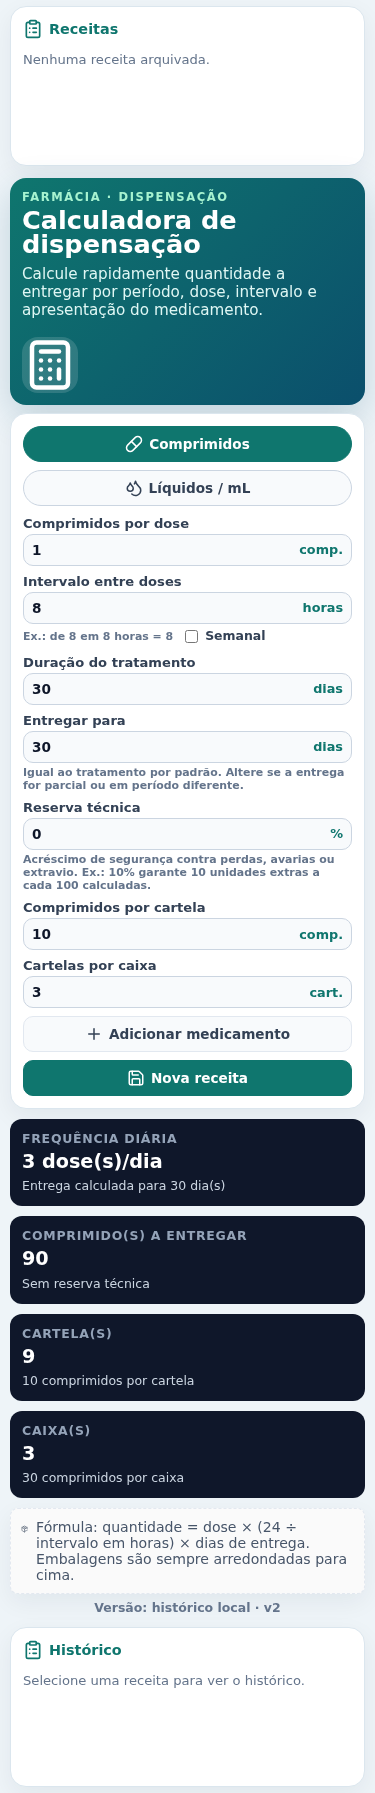
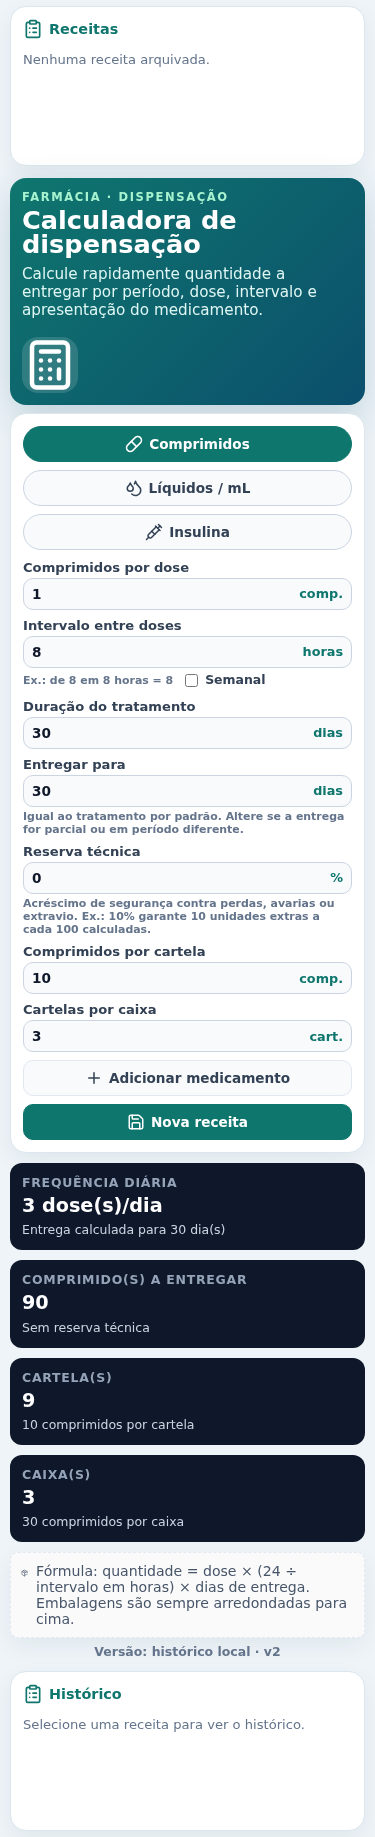
feat: restore insulin mode and fix weekly selectors

diff --git a/src/main.jsx b/src/main.jsx
@@ -1,6 +1,6 @@
 import React, { useEffect, useMemo, useState } from 'react';
 import { createRoot } from 'react-dom/client';
-import { Calculator, ClipboardList, Droplets, PackageCheck, Pill, Plus, Save } from 'lucide-react';
+import { Calculator, ClipboardList, Droplets, PackageCheck, Pill, Plus, Save, Syringe } from 'lucide-react';
 import './styles.css';
 
 const STORAGE_KEY = 'remedcalc.receitas.v1';
@@ -15,6 +15,13 @@ const initialForm = {
   unitsPerBlister: '10',
   blistersPerBox: '3',
   mlPerBottle: '100',
+  insulinMode: 'tubete',
+  insulinMorning: '0',
+  insulinAfternoon: '0',
+  insulinNight: '0',
+  insulinLunch: '0',
+  insulinDinner: '0',
+  insulinDays: '30',
   weekly: '0',
 };
 
@@ -53,8 +60,13 @@ function ResultCard({ title, value, detail }) {
 }
 
 function summarizeMedicine(medicine) {
-  const type = medicine.mode === 'ml' ? 'Líquido' : 'Comprimido';
-  const unit = medicine.mode === 'ml' ? 'mL' : 'comprimido(s)';
+  const type = medicine.mode === 'ml' ? 'Líquido' : medicine.mode === 'insulina' ? 'Insulina' : 'Comprimido';
+  const unit = medicine.mode === 'ml' ? 'mL' : medicine.mode === 'insulina' ? 'UI' : 'comprimido(s)';
+  const total = medicine.deliveredTotal ?? medicine.totalWithReserve ?? medicine.total;
+  const days = medicine.deliveryDays || medicine.treatmentDays || 0;
+  if (medicine.mode === 'insulina') {
+    return `${type}: ${total} ${unit} por ${days} dia(s)`;
+  }
   const freq = medicine.weekly ? '1x/semana' : `de ${medicine.intervalHours} em ${medicine.intervalHours} horas`;
   return `${type}: ${medicine.totalWithReserve} ${unit} por ${medicine.deliveryDays} dia(s), ${medicine.dose} ${medicine.mode === 'ml' ? 'mL' : 'comp.'} ${freq}`;
 }
@@ -79,7 +91,30 @@ function App() {
 
   const weekly = form.weekly === '1';
 
+  const isMl = form.mode === 'ml';
+  const isInsulin = form.mode === 'insulina';
+  const selectedRecipe = recipes.find((recipe) => recipe.id === selectedRecipeId) || recipes.at(-1) || null;
+
   const result = useMemo(() => {
+    if (form.mode === 'insulina') {
+      const totalUi = positiveNumber(form.insulinMorning) + positiveNumber(form.insulinAfternoon) + positiveNumber(form.insulinNight) + positiveNumber(form.insulinLunch) + positiveNumber(form.insulinDinner);
+      const divisor = form.insulinMode === 'tubete' ? 300 : 1000;
+      const days = positiveNumber(form.insulinDays);
+      const deliveredTotal = totalUi > 0 && divisor > 0 ? Math.ceil(totalUi * days / divisor) : 0;
+      return {
+        deliveryDays: days,
+        dosesPerDay: 0,
+        total: deliveredTotal,
+        totalWithReserve: deliveredTotal,
+        deliveredTotal,
+        primaryLabel: form.insulinMode === 'tubete' ? 'Tubetes a entregar' : 'Frascos a entregar',
+        packageA: deliveredTotal,
+        packageALabel: form.insulinMode === 'tubete' ? 'tubete(s)' : 'frasco(s)',
+        packageADetail: divisor === 300 ? 'Dividido por 300 UI' : 'Dividido por 1000 UI',
+        warning: '',
+      };
+    }
+
     const dose = positiveNumber(form.dose);
     const intervalHours = positiveNumber(form.intervalHours);
     const treatmentDays = positiveNumber(form.treatmentDays);
@@ -132,26 +167,42 @@ function App() {
     };
   }, [form]);
 
-  const isMl = form.mode === 'ml';
-  const selectedRecipe = recipes.find((recipe) => recipe.id === selectedRecipeId) || recipes.at(-1) || null;
-
-  const buildMedicine = () => ({
-    id: crypto.randomUUID(),
-    name: nextName('Remédio', currentMedicines.length),
-    mode: form.mode,
-    dose: positiveNumber(form.dose),
-    intervalHours: positiveNumber(form.intervalHours),
-    treatmentDays: positiveNumber(form.treatmentDays),
-    deliveryDays: result.deliveryDays,
-    reservePercent: positiveNumber(form.reservePercent),
-    weekly,
-    total: result.total,
-    totalWithReserve: result.totalWithReserve,
-    packageALabel: result.packageALabel,
-    packageA: result.packageA,
-    packageBLabel: result.packageBLabel,
-    packageB: result.packageB,
-  });
+  const buildMedicine = () => {
+    const base = {
+      id: crypto.randomUUID(),
+      mode: form.mode,
+      total: result.total,
+      totalWithReserve: result.totalWithReserve,
+      deliveredTotal: result.deliveredTotal,
+      packageALabel: result.packageALabel,
+      packageA: result.packageA,
+    };
+    if (form.mode === 'insulina') {
+      return {
+        ...base,
+        name: nextName('Insulina', currentMedicines.length),
+        insulinMode: form.insulinMode,
+        insulinMorning: positiveNumber(form.insulinMorning),
+        insulinAfternoon: positiveNumber(form.insulinAfternoon),
+        insulinNight: positiveNumber(form.insulinNight),
+        insulinLunch: positiveNumber(form.insulinLunch),
+        insulinDinner: positiveNumber(form.insulinDinner),
+        deliveryDays: result.deliveryDays,
+      };
+    }
+    return {
+      ...base,
+      name: nextName('Remédio', currentMedicines.length),
+      dose: positiveNumber(form.dose),
+      intervalHours: positiveNumber(form.intervalHours),
+      treatmentDays: positiveNumber(form.treatmentDays),
+      deliveryDays: result.deliveryDays,
+      reservePercent: positiveNumber(form.reservePercent),
+      weekly,
+      packageBLabel: result.packageBLabel,
+      packageB: result.packageB,
+    };
+  };
 
   const addMedicine = () => {
     setCurrentMedicines((items) => [...items, buildMedicine()]);
@@ -211,42 +262,67 @@ function App() {
 
         <section className="panel">
           <div className="tabs" role="tablist" aria-label="Tipo de medicamento">
-            <button className={!isMl ? 'active' : ''} onClick={() => setValue('mode')('comprimidos')}>
+            <button className={!isMl && !isInsulin ? 'active' : ''} onClick={() => setValue('mode')('comprimidos')}>
               <Pill size={18} /> Comprimidos
             </button>
             <button className={isMl ? 'active' : ''} onClick={() => setValue('mode')('ml')}>
               <Droplets size={18} /> Líquidos / mL
             </button>
+            <button className={isInsulin ? 'active' : ''} onClick={() => setValue('mode')('insulina')}>
+              <Syringe size={18} /> Insulina
+            </button>
           </div>
 
           <div className="grid">
-            <Field label={isMl ? 'Volume por dose' : 'Comprimidos por dose'} value={form.dose} onChange={setValue('dose')} suffix={isMl ? 'mL' : 'comp.'} />
-            <Field 
-              label="Intervalo entre doses" 
-              value={form.intervalHours} 
-              onChange={setValue('intervalHours')} 
-              suffix="horas" 
-              help={
-                <span className="helpInline">
-                  <span>Ex.: de 8 em 8 horas = 8</span>
-                  <label className="inlineCheckbox">
-                    <input type="checkbox" checked={form.weekly === '1'} onChange={(e) => setValue('weekly')(e.target.checked ? '1' : '0')} />
-                    <strong>Semanal</strong>
-                  </label>
-                </span>
-              }
-              disabled={form.weekly === '1'} 
-            />
-            <Field label="Duração do tratamento" value={form.treatmentDays} onChange={setValue('treatmentDays')} suffix="dias" />
-            <Field label="Entregar para" value={form.deliveryDays} onChange={setValue('deliveryDays')} suffix="dias" help="Igual ao tratamento por padrão. Altere se a entrega for parcial ou em período diferente." />
-            <Field label="Reserva técnica" value={form.reservePercent} onChange={setValue('reservePercent')} suffix="%" help="Acréscimo de segurança contra perdas, avarias ou extravio. Ex.: 10% garante 10 unidades extras a cada 100 calculadas." />
-
-            {isMl ? (
-              <Field label="Volume por frasco" value={form.mlPerBottle} onChange={setValue('mlPerBottle')} suffix="mL" />
+            {isInsulin ? (
+              <>
+                <div className="field">
+                  <span>Apresentação</span>
+                  <div className="radio">
+                    <label><input type="radio" name="insulinMode" value="tubete" checked={form.insulinMode === 'tubete'} onChange={() => setValue('insulinMode')('tubete')} /> Tubete</label>
+                    <label><input type="radio" name="insulinMode" value="frasco" checked={form.insulinMode === 'frasco'} onChange={() => setValue('insulinMode')('frasco')} /> Frasco</label>
+                  </div>
+                </div>
+                <Field label="Manhã" value={form.insulinMorning} onChange={setValue('insulinMorning')} suffix="UI" min="0" step="any" />
+                <Field label="Almoço" value={form.insulinLunch} onChange={setValue('insulinLunch')} suffix="UI" min="0" step="any" />
+                <Field label="Tarde" value={form.insulinAfternoon} onChange={setValue('insulinAfternoon')} suffix="UI" min="0" step="any" />
+                <Field label="Jantar" value={form.insulinDinner} onChange={setValue('insulinDinner')} suffix="UI" min="0" step="any" />
+                <Field label="Noite" value={form.insulinNight} onChange={setValue('insulinNight')} suffix="UI" min="0" step="any" />
+                <Field label="Dias de tratamento" value={form.insulinDays} onChange={setValue('insulinDays')} suffix="dias" />
+              </>
             ) : (
               <>
-                <Field label="Comprimidos por cartela" value={form.unitsPerBlister} onChange={setValue('unitsPerBlister')} suffix="comp." />
-                <Field label="Cartelas por caixa" value={form.blistersPerBox} onChange={setValue('blistersPerBox')} suffix="cart." />
+                <Field label={isMl ? 'Volume por dose' : 'Comprimidos por dose'} value={form.dose} onChange={setValue('dose')} suffix={isMl ? 'mL' : 'comp.'} />
+                <Field
+                  label="Intervalo entre doses"
+                  value={form.intervalHours}
+                  onChange={setValue('intervalHours')}
+                  suffix="horas"
+                  help={
+                    <span className="helpInline">
+                      <span>Ex.: de 8 em 8 horas = 8</span>
+                      {!isMl && (
+                        <label className="inlineCheckbox">
+                          <input type="checkbox" checked={form.weekly === '1'} onChange={(e) => setValue('weekly')(e.target.checked ? '1' : '0')} />
+                          <strong>Semanal</strong>
+                        </label>
+                      )}
+                    </span>
+                  }
+                  disabled={form.weekly === '1'}
+                />
+                <Field label="Duração do tratamento" value={form.treatmentDays} onChange={setValue('treatmentDays')} suffix="dias" />
+                <Field label="Entregar para" value={form.deliveryDays} onChange={setValue('deliveryDays')} suffix="dias" help="Igual ao tratamento por padrão. Altere se a entrega for parcial ou em período diferente." />
+                <Field label="Reserva técnica" value={form.reservePercent} onChange={setValue('reservePercent')} suffix="%" help="Acréscimo de segurança contra perdas, avarias ou extravio. Ex.: 10% garante 10 unidades extras a cada 100 calculadas." />
+
+                {isMl ? (
+                  <Field label="Volume por frasco" value={form.mlPerBottle} onChange={setValue('mlPerBottle')} suffix="mL" />
+                ) : (
+                  <>
+                    <Field label="Comprimidos por cartela" value={form.unitsPerBlister} onChange={setValue('unitsPerBlister')} suffix="comp." />
+                    <Field label="Cartelas por caixa" value={form.blistersPerBox} onChange={setValue('blistersPerBox')} suffix="cart." />
+                  </>
+                )}
               </>
             )}
           </div>
@@ -272,7 +348,11 @@ function App() {
 
         <section className="formula">
           <PackageCheck size={20} />
-          <p>Fórmula: quantidade = dose × (24 ÷ intervalo em horas) × dias de entrega. Embalagens são sempre arredondadas para cima.</p>
+          <p>
+            {form.mode === 'insulina'
+              ? 'Fórmula: insulina = (soma das doses UI) × dias de tratamento ÷ divisor da apresentação.'
+              : 'Fórmula: quantidade = dose × (24 ÷ intervalo em horas) × dias de entrega. Embalagens são sempre arredondadas para cima.'}
+          </p>
         </section>
 
         <p className="buildBadge">Versão: histórico local · v2</p>

diff --git a/src/styles.css b/src/styles.css
@@ -57,6 +57,9 @@ button { cursor: pointer; }
 .helpInline { display: inline-flex; align-items: center; gap: 8px; flex-wrap: wrap; }
 .inlineCheckbox { display: inline-flex; align-items: center; gap: 4px; cursor: pointer; font-weight: 700; font-size: .78rem; color: #334155; }
 .inlineCheckbox input { width: auto; accent-color: #0f766e; }
+.radio { display: inline-flex; align-items: center; gap: 10px; padding: 6px 10px; border: 1px solid #cbd5e1; background: #f8fafc; border-radius: 10px; }
+.radio label { display: inline-flex; align-items: center; gap: 6px; font-weight: 700; font-size: .82rem; color: #334155; cursor: pointer; }
+.radio input { width: auto; accent-color: #0f766e; }
 .buildBadge { margin: 6px 0 0; text-align: center; color: #64748b; font-size: .78rem; font-weight: 800; }
 .currentBox { margin-bottom: 10px; padding: 8px; border-radius: 12px; background: #f0fdfa; border: 1px solid #99f6e4; }
 .currentBox p { margin: 6px 0 0; line-height: 1.2; font-size: .82rem; }
